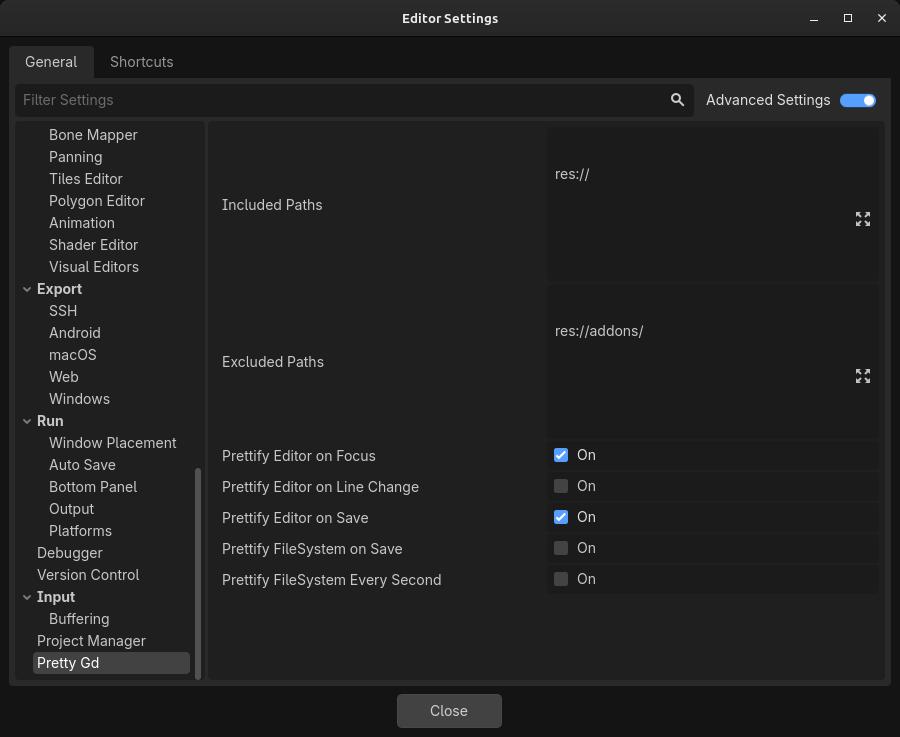
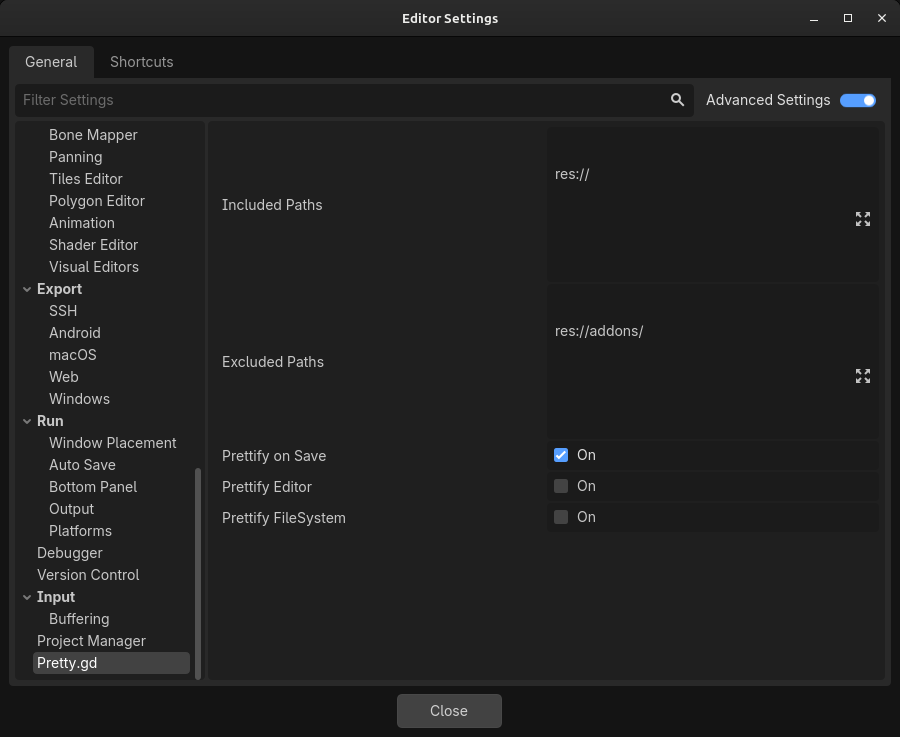
v2.0.0

diff --git a/addons/pretty-gd/README.md b/addons/pretty-gd/README.md
@@ -50,6 +50,11 @@ If you come across any other issues with using this software, please [let me kno
 
 ## Release Notes
 
+### 2.0.0
+
+	- Simplified settings a bit.
+
+
 ### 0.6.1
 
  - Fixed bug that reset "prettify_filesystem_on_save" and "prettify_filesystem_every_second" on startup.
